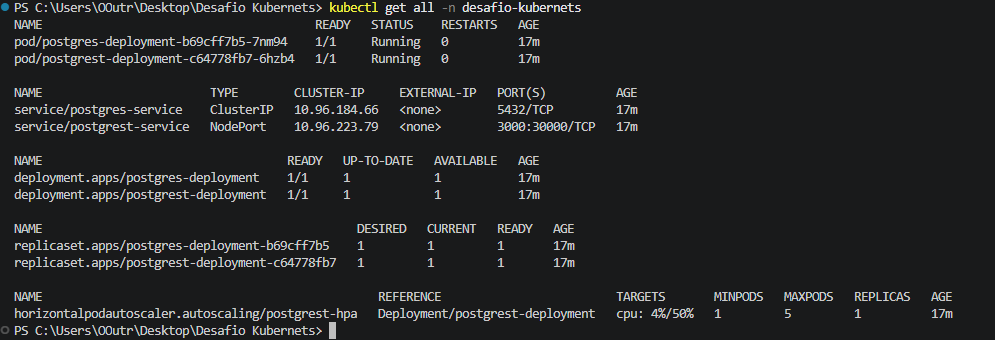
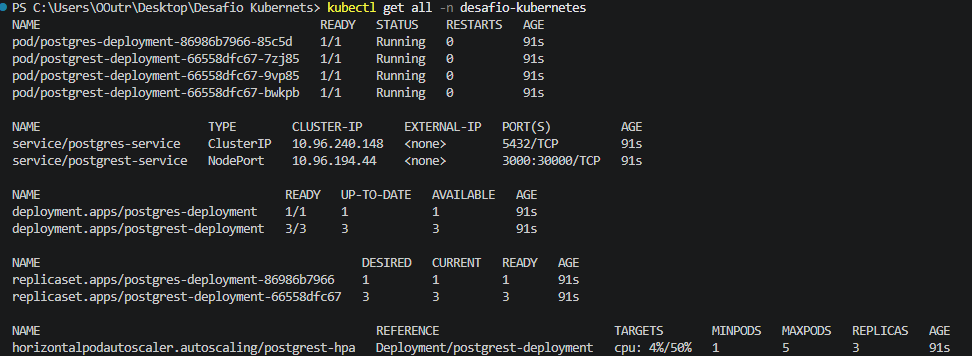
Imagens e alguns comandos das evidências foram atualizados.

Changed region(s): [[0.0, 0.0, 0.9877, 1.0], [0.8642, 0.9706, 0.8951, 1.0], [0.4938, 0.8235, 0.5247, 0.8529]]

diff --git a/docs/reflexoes.md b/docs/reflexoes.md
@@ -17,7 +17,7 @@ Já o PersistentVolumeClaim (PVC) é um elemento de armazenamento persistente qu
 ### 3. Ao inspecionar o Secret com -o yaml , o valor aparece "embaralhado". Isso é criptografia de verdade ou apenas codificação? O que isso significa para a segurança real?
 O valor exibido no Secret é apenas uma codificação em Base64, e não criptografia. É uma transformação reversível sem necessidade de chave, onde qualquer pessoa com acesso ao YAML pode decodificar o valor para texto limpo com o comando básico ``base64 -d``. Ele serve apenas para padronizar o formato dos dados para evitar problemas de sintaxe no YAML.
 
-Isso significa que Secret no Kubernetes apenas não garante a proteção de dados sensíveis, é necessário em ambientes reais medidas adicionais, como a utilização de criptografia em repouso no etcd, restringir o acesso através de políticas de RBAC e manter essas credenciais em cofres externos, apenas os injetando conforme a necessidade.
+Isso significa que Secret no Kubernetes por si só não garante a proteção de dados sensíveis, é necessário em ambientes reais medidas adicionais, como a utilização de criptografia em repouso no etcd, restringir o acesso através de políticas de RBAC e manter essas credenciais em cofres externos, apenas os injetando conforme a necessidade.
 
 ### 4. Por que usamos o nome do Service do Postgres na string de conexão, em vez do IP do Pod? O que aconteceria com a conexão se você usasse o IP e o Pod do banco fosse recriado?
 Toda vez que um Pod é recriado, normalmente é atribuído a ele um novo IP. Portanto, se a API fosse configurada utilizando diretamente o IP do Pod do banco de dados, quando esse Pod fosse recriado por uma falha, atualização ou manutenção, a conexão deixaria de funcionar, pois o endereço utilizado pela aplicação não apontaria mais para o novo Pod.

diff --git a/docs/validacoes-e-evidencias.md b/docs/validacoes-e-evidencias.md
@@ -19,6 +19,7 @@ Este documento reúne a comprovação visual solicitada pelo desafio quanto a: i
 
 **Comandos Executados:**
 - ``kubectl port-forward svc/postgrest-service 3000:3000 -n desafio-kubernetes``
+- ``Invoke-RestMethod -Uri "http://localhost:3000/tarefas" -Method Post -ContentType "application/json" -Body '{"titulo": "Testar Integracao API e Banco"}'``
 - ``Invoke-RestMethod -Uri "http://localhost:3000/tarefas"``
 <br><br>
 
@@ -30,7 +31,8 @@ Este documento reúne a comprovação visual solicitada pelo desafio quanto a: i
 **Objetivo:** Provar a persistência dos dados mesmo após a exclusão e recriação do Pod do banco de dados.
 
 **Comandos Executados:**
-- ``Invoke-RestMethod -Uri "http://localhost:3000/tarefas" -Method Post -ContentType "application/json" -Body '{"titulo": "Teste de Persistencia PVC"}'``
+- ``Invoke-RestMethod -Uri "http://localhost:3000/tarefas" -Method Post -ContentType "application/json" -Body '{"titulo": "Teste2"}'``
+- ``Invoke-RestMethod -Uri "http://localhost:3000/tarefas"``
 - ``kubectl delete pod -l app=postgres -n desafio-kubernetes``
 - ``Invoke-RestMethod -Uri "http://localhost:3000/tarefas"``
 <br><br>

diff --git a/README.md b/README.md
@@ -212,7 +212,7 @@ de réplicas.
 Para remover todos os recursos criados pelo projeto:
 
 ``` powershell
-kubectl delete namespace desafio-kubernets
+kubectl delete namespace desafio-kubernetes
 ```
 
 Isso removerá o Namespace e os recursos associados, incluindo Pods,
